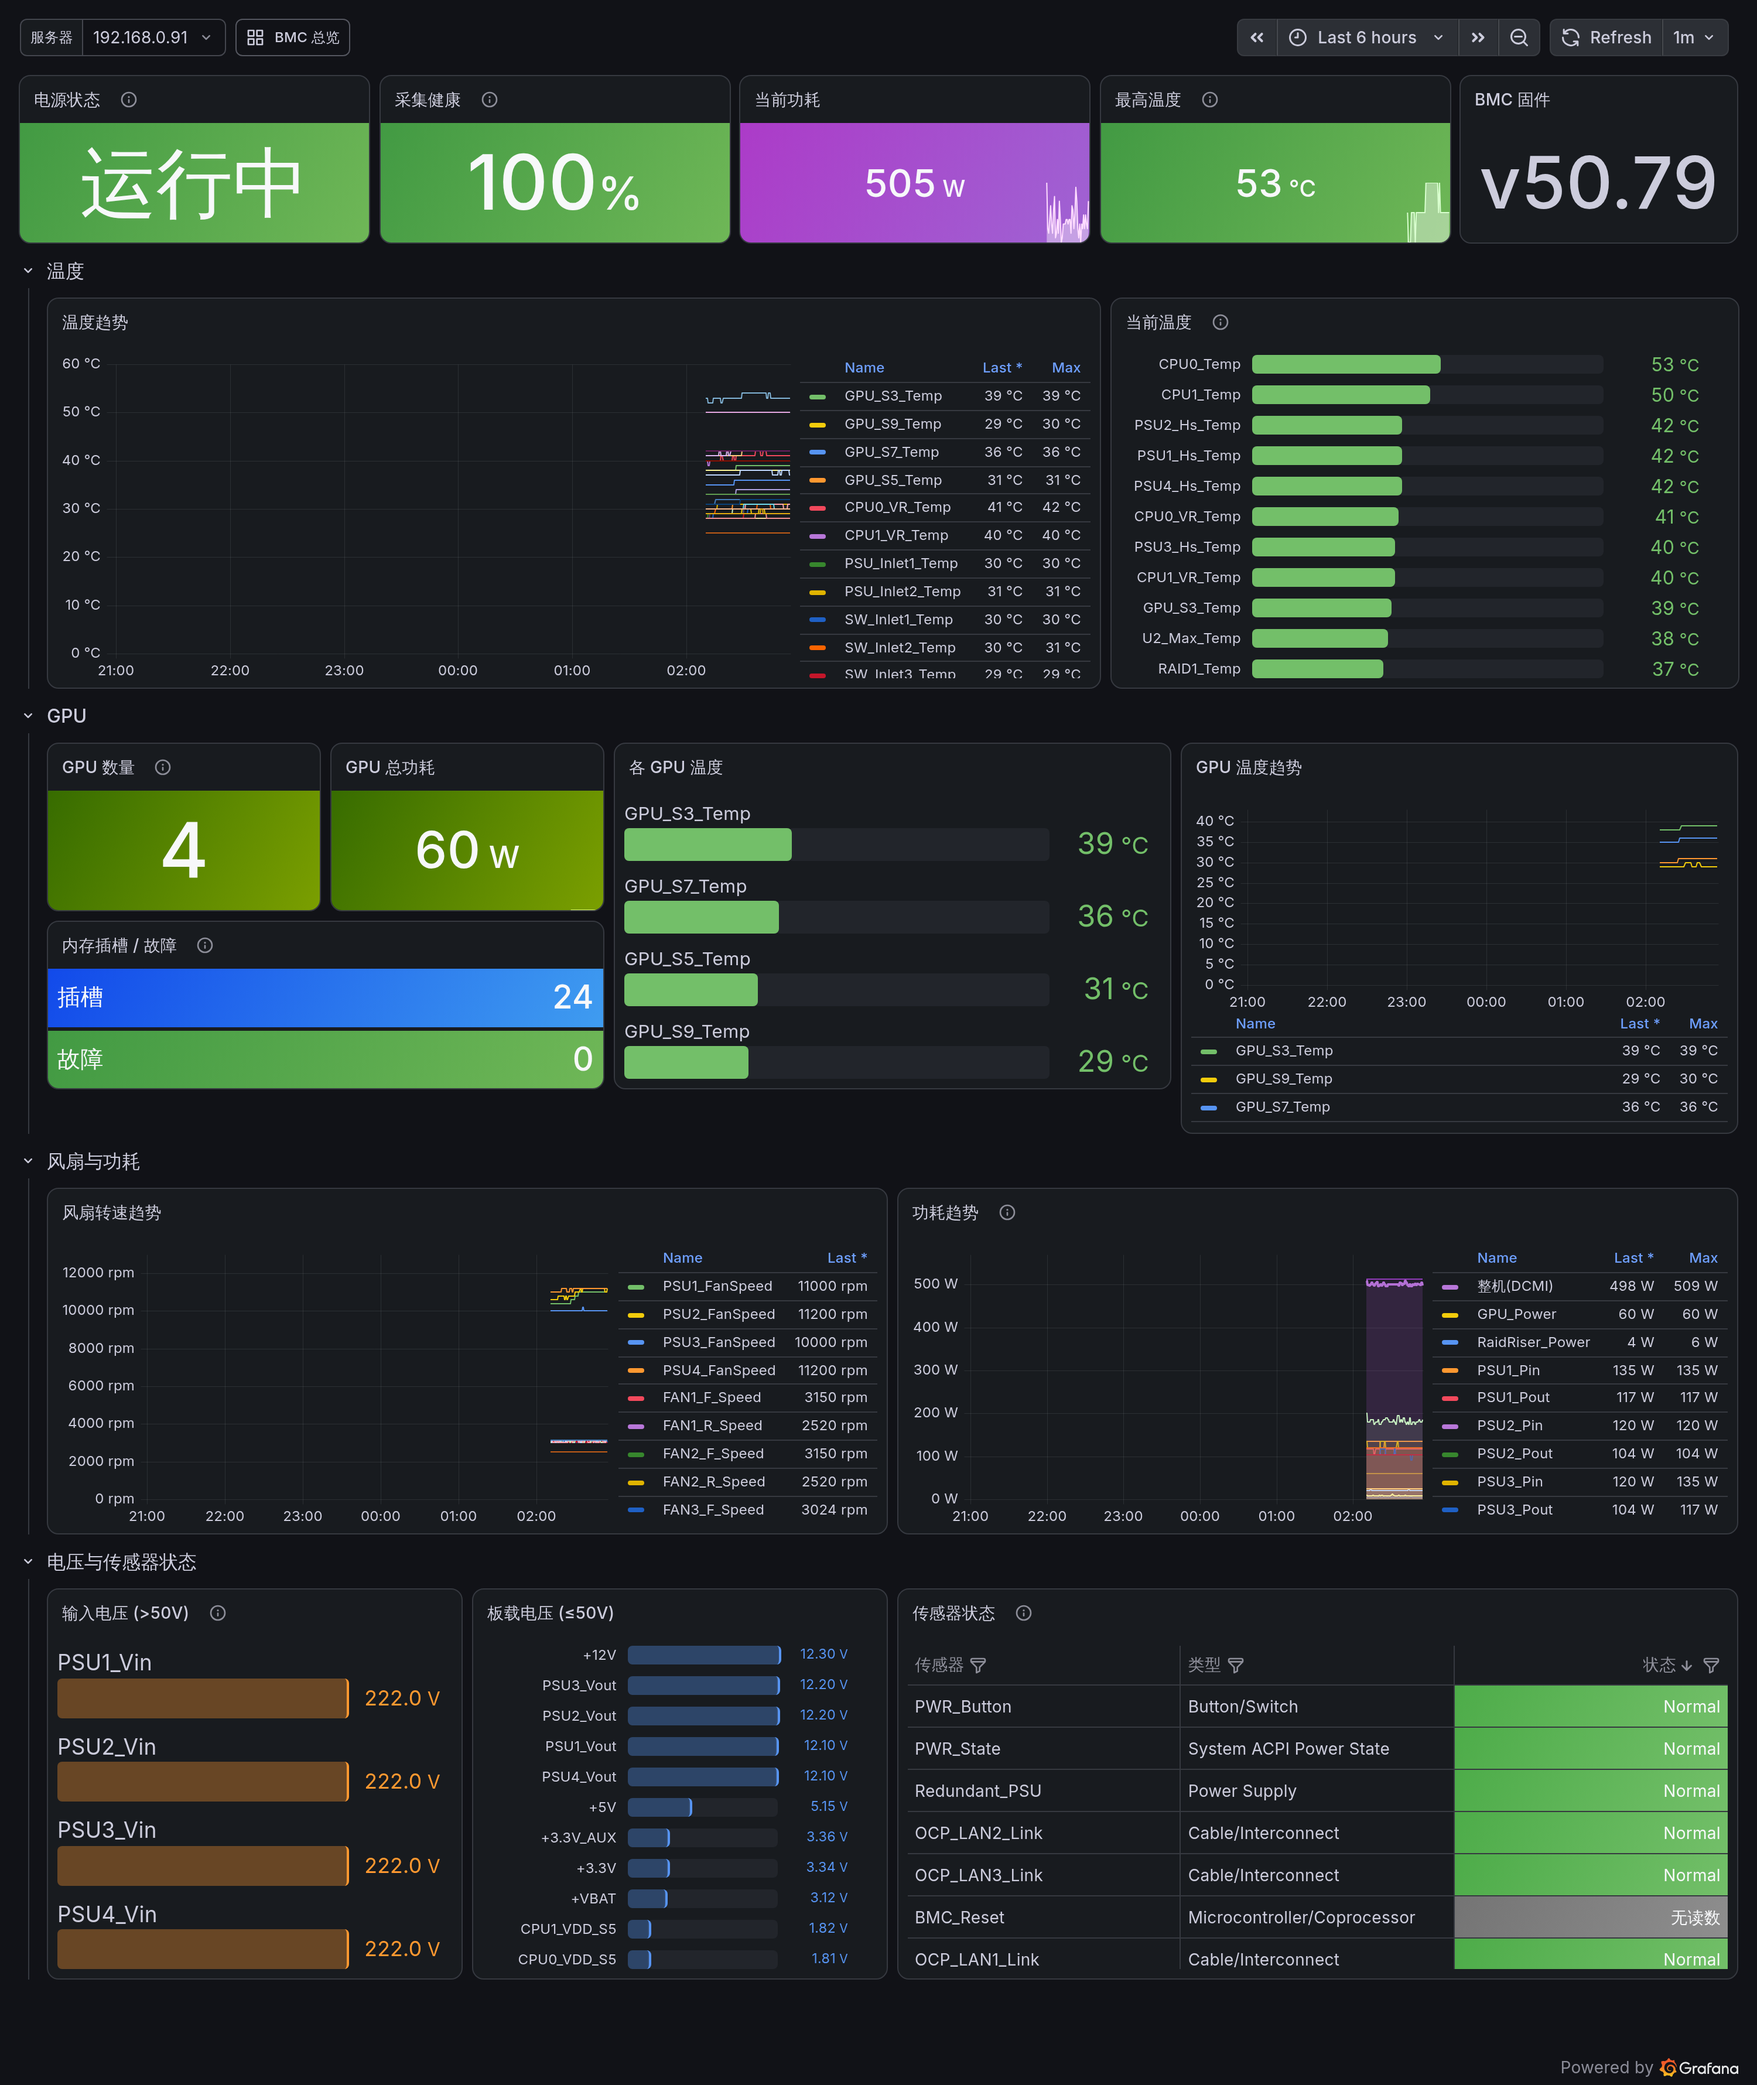
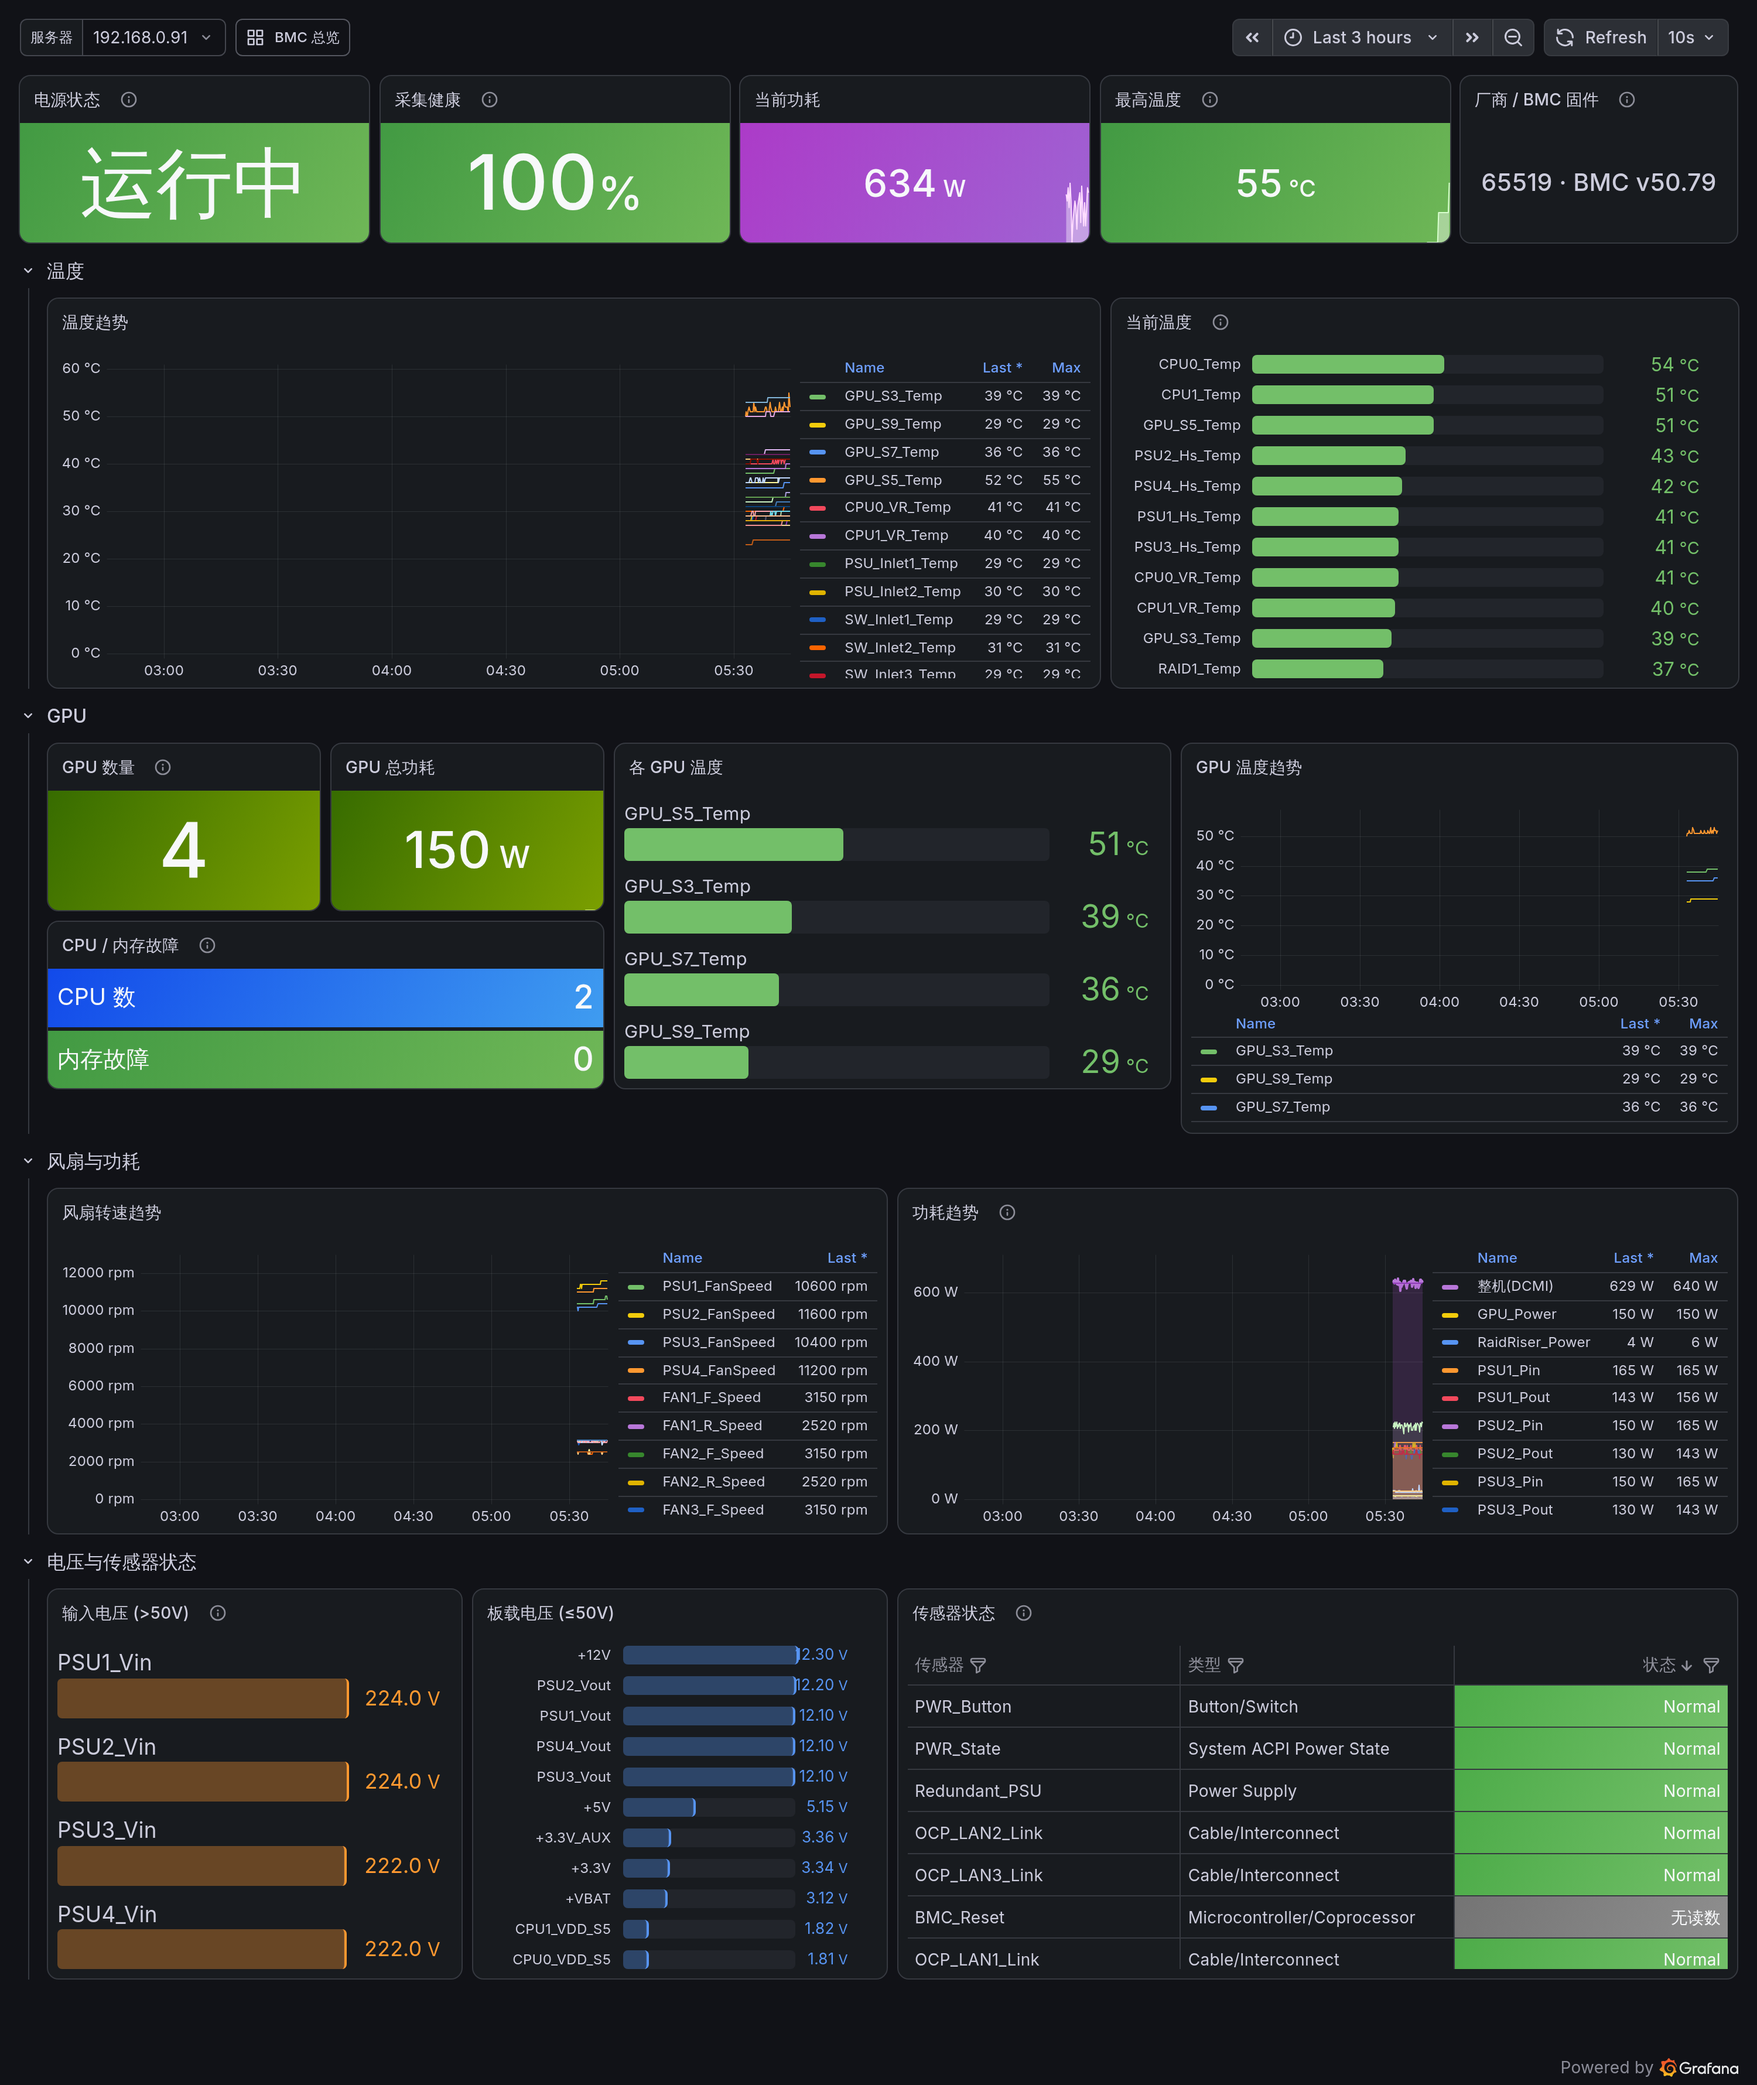
更新看板截图,与当前代码保持一致
原截图是若干次改动之前的,已经和代码对不上:还显示着「内存插槽」面板、
旧的耗电量算法,以及一台已被删除的失联机器。

新截图同时印证了耗电量的修复:一台 630W 的机器在 3 小时窗口里只跑了
约 10 分钟,现在显示 125.32 Wh(630W × 0.2h),旧算法会算成 1.89 kWh。

README 图注相应改写,改为说明「读不到就如实显示 —— 」这一设计取向
(该机型 BMC 不支持 DCMI 功耗读数,清单里功耗列显示为 —)。

diff --git a/README.md b/README.md
@@ -20,8 +20,11 @@
 
 ### 机房总览
 
-功耗 / 耗电量 / 电费 / 碳排放 / PSU 效率 / 进风温度 / GPU / 内存,以及一张可点击下钻的服务器清单。
-下图里 `192.168.0.171` 正处于失联状态 —— **抓不到数据的机器不会从清单里消失**,而是标红显示,这正是最需要被看见的情况。
+功耗 / 耗电量 / 电费 / 碳排放 / PSU 效率 / 进风温度 / CPU / GPU,以及一张可点击下钻的服务器清单。
+
+清单里 `192.168.0.251` 这台的功耗、GPU 列是 `—`:它的 BMC 不支持 DCMI 功耗读数,也没有 GPU。
+**读不到就如实显示读不到**,不会拿 0 冒充。同理,BMC 连不上的机器会标红「失联」留在清单里,
+而不是从表里消失 —— 那才是最需要被看见的情况。
 
 ![机房总览](docs/overview.png)
 
